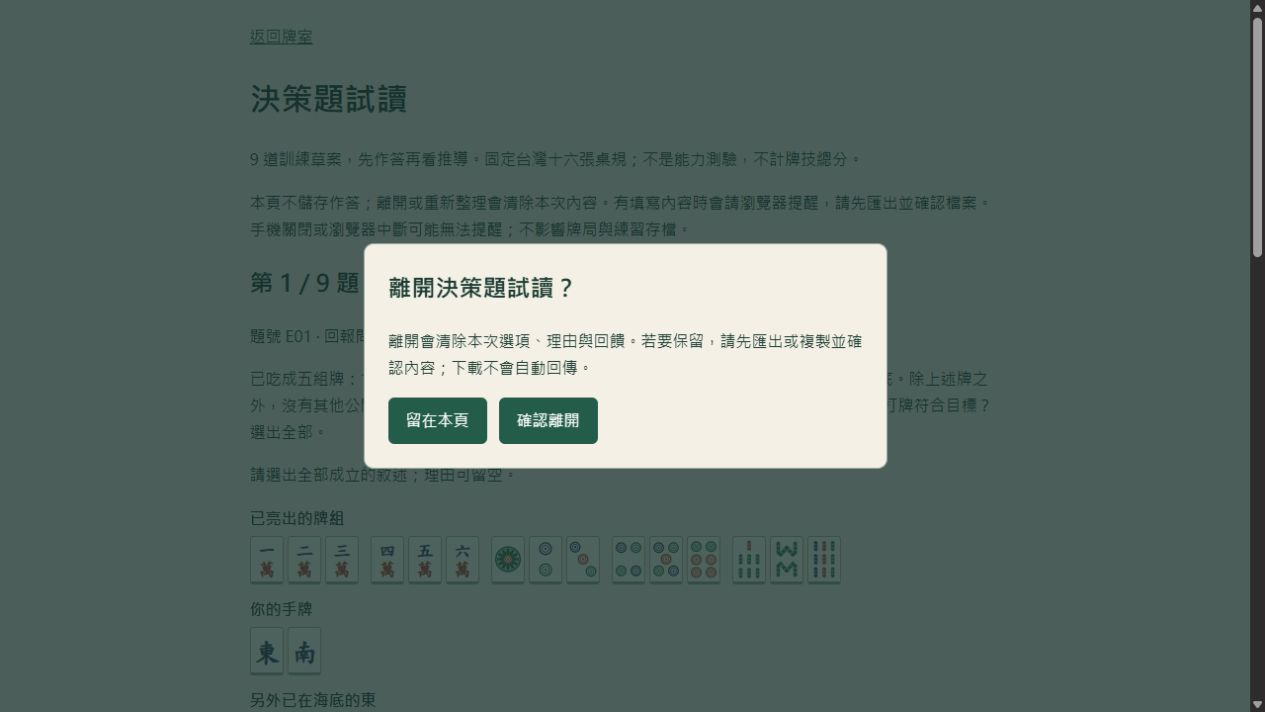
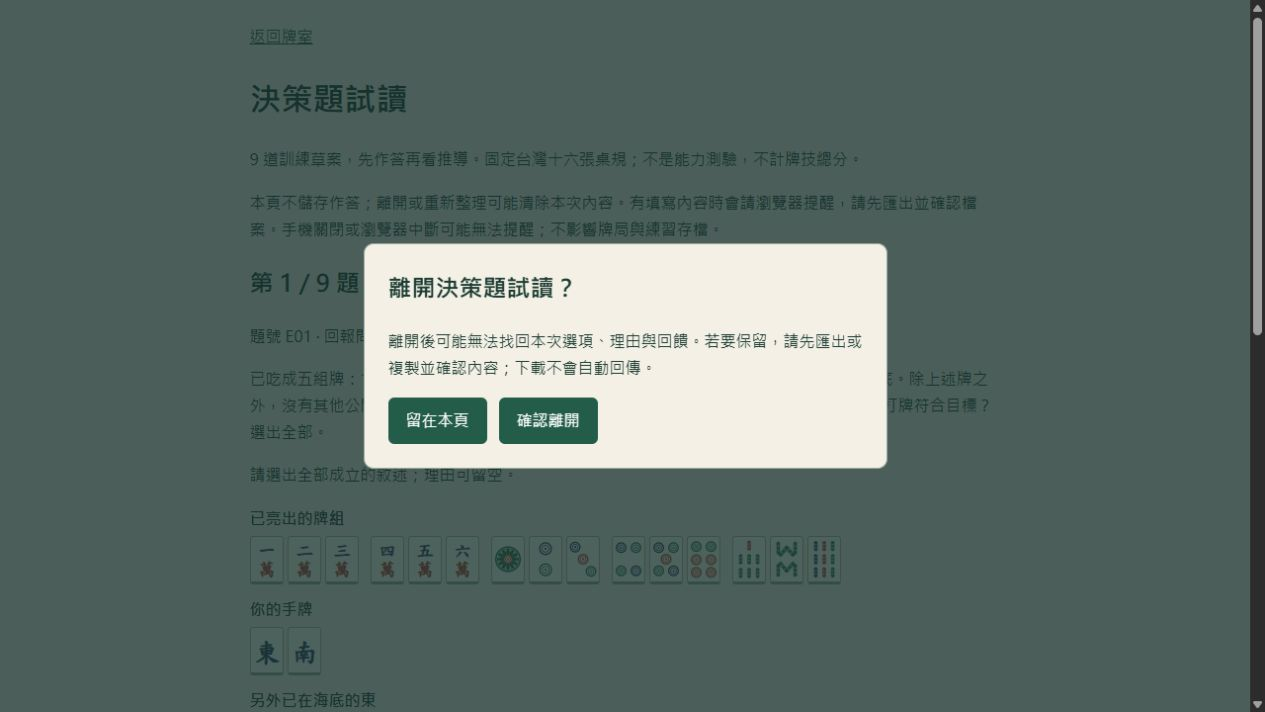
Keep restored trial forms consistent with owned drafts

diff --git a/outputs/taiwan-mahjong/src/training.ts b/outputs/taiwan-mahjong/src/training.ts
@@ -30,8 +30,8 @@ function updateDraftStatus(): void {
     : '內容只留在本頁。離開前請匯出並確認檔案；交由瀏覽器下載後仍會提醒離頁。';
   if (status.textContent !== notice) status.textContent = notice;
 }
-// Re-arm after back/forward cache restores a page whose explicit return action removed the guard.
-window.addEventListener('pageshow', updateDraftStatus);
+// The browser may restore form fields after pageshow without restoring our drafts; redraw from owned state after that restoration.
+window.addEventListener('pageshow', () => { updateDraftStatus(); setTimeout(() => render(false), 0); });
 const returnLink = document.querySelector<HTMLAnchorElement>('#return-room');
 returnLink?.addEventListener('click', event => {
   if (!leaveGuardActive || event.button !== 0 || event.ctrlKey || event.metaKey || event.shiftKey || event.altKey) return;

diff --git a/outputs/taiwan-mahjong/S01-S11-VALIDATION.md b/outputs/taiwan-mahjong/S01-S11-VALIDATION.md
@@ -17,7 +17,7 @@
 ## S1.1：功能與資料界線
 
 - 選項、理由、回饋或已揭示內容存在時才註冊 beforeunload；清空未提交內容可解除。切題保留草稿且不增加重複監聽。
-- 若瀏覽器返回／前進快取還原草稿，pageshow 會重新啟用防護；此分支由控制測試驗證，快取本身不作持久保存承諾。文案用「可能清除」，不保證每次導航都清掉快取。
+- 返回／前進時，pageshow 先重新判斷防護，再於瀏覽器表單還原後依程式自有草稿重繪。保留完整記憶體快取時，草稿及防護可恢復；僅還原表單而沒有題目草稿時清除那些顯示值，避免把錯題理由或表面勾選當成可匯出的作答。兩分支有控制測試；4204也實際驗返回後表單為空且一致。快取不作持久保存承諾。
 - 「返回牌室」使用原生 HTML dialog，預設焦點在「留在本頁」。取消／Escape 保留內容並回焦點；只有按「確認離開」才解除監聽並返回。另開分頁的 Ctrl／Meta 等修飾操作不阻擋原頁。
 - 重新整理、關閉分頁或其他網址跳轉使用瀏覽器原生提醒。內建瀏覽器驗收可觀察重新整理被攔住且內容保留；其原生確認並未提供可操作視窗，因此返回改用頁內確認。未宣稱跨瀏覽器原生確認按鈕均已驗。
 - 作答與回饋各自保留最近交由瀏覽器下載的內容快照；後續修改顯示需要再次匯出的類型，回復相同內容解除「新修改」提示。只下載回饋不能當作作答已匯出。
@@ -48,7 +48,7 @@
 
 ![離開確認](S11-LEAVE-CONFIRM.jpg)
 
-本包最終產物：首頁 `index-D57TZ2GI.js`／`index-DcXzVABB.css`、試讀 `training-BPUrtNd1.js`／`training-DnepUIbB.css`、共用 `tile-face-CG76dTyt.js`。正式發布需再次核對提交、CI 及線上資源；交接記最新結果。
+本包最終產物：首頁 `index-D57TZ2GI.js`／`index-DcXzVABB.css`、試讀 `training-CyxzesHo.js`／`training-DnepUIbB.css`、共用 `tile-face-CG76dTyt.js`。正式發布需再次核對提交、CI 及線上資源；交接記最新結果。
 
 ## 限制與下一包
 

diff --git a/outputs/taiwan-mahjong/HANDOFF.md b/outputs/taiwan-mahjong/HANDOFF.md
@@ -8,7 +8,7 @@
 
 試讀有選項／理由／回饋時防離頁，返回牌室以原生HTML dialog明確選擇；取消／Escape保留，確認才離開。下載後修改提醒分作答／回饋，成功交由瀏覽器下載仍保留防護；下載失敗與可複製內容保留。無新存檔或匯出格式，題庫版本不變。342測試／check／build通過，work/s01-tests.log；4204空白返回、只有回饋、取消／Escape／確認、重載被攔／資料保留、TXT／JSON真實下載讀回及390窄畫面已驗，僅合成資料。詳見[S0.1–S1.1驗收](S01-S11-VALIDATION.md)。
 
-主包8b541a1已推送，Actions38397606659成功；後續補上pageshow返回／前進快取還原時重啟防護，342測試／build再通過，補丁待發布核對。首頁產物維持index-D57TZ2GI.js／index-DcXzVABB.css；最終試讀training-BPUrtNd1.js／training-DnepUIbB.css；共用牌面不變。原生關頁／重載提醒有平台限制，不宣稱持久草稿或全瀏覽器已驗。下一包S1.2a PR檢查，S1.2b瀏覽器回歸另包。C01「順子子」重字留S3.1版本化修題，本包不改題庫。
+主包8b541a1及初次返回防護9ff2e92已發布，Actions38397606659／38398264515成功。正式站反查又發現瀏覽器可僅還原表單而未還原題目草稿，已补pageshow後依自有狀態重繪；342測試、build及4204實際返回／新作答／取消保留再驗通過，最終補丁待發布核對。首頁產物維持index-D57TZ2GI.js／index-DcXzVABB.css；最終試讀training-CyxzesHo.js／training-DnepUIbB.css；共用牌面不變。原生關頁／重載提醒有平台限制，不宣稱持久草稿或全瀏覽器已驗。下一包S1.2a PR檢查，S1.2b瀏覽器回歸另包。C01「順子子」重字留S3.1版本化修題，本包不改題庫。
 
 本輪116個受影響文件連結均存在，diff格式通過；4204測試分頁與預覽服務已關閉，viewport已還原，真人正式存檔未操作。開工五小時帳戶用量1%，本機驗收檢查13%，非精確token；本包無子代理、未重設或自動續跑。
 

diff --git a/outputs/taiwan-mahjong/MAINTENANCE.md b/outputs/taiwan-mahjong/MAINTENANCE.md
@@ -148,4 +148,4 @@ L2-B1：src/hand-review.ts只讀已驗證封套，挑最近三筆可比較決策
 
 2026-10-13：玩家用詞依 [LOCAL-TERMS](LOCAL-TERMS.md)，白話聽牌距離由 src/terms.ts 共用；內部牌種/API不改名。題庫生成器加完整九題 contentRevision，試讀匯出 schema 2，本機 review-trial 仍讀 schema 1；改題或牌面會改版本，舊資料不靜默重評。
 
-2026-10-13 S1.1：src/training.ts 在有頁內內容時註冊 beforeunload、清空未提交內容時解除；返回牌室原生 dialog 的確認按鈕才解除並導航，取消／Escape回焦點且不改草稿。pageshow 在返回／前進快取還原時重新判斷防護；不把快取當持久保存。作答／回饋各存頁內最近下載快照，修改提示不重繪題目；下載失敗不更新快照，發起下載不代表落盤，不解除防護。無新的存檔鍵或匯出格式，測試在 training-page.test.mjs，證據見 [S0.1–S1.1](S01-S11-VALIDATION.md)。完整課程仍在S2；產品／排程改動先同步 PRODUCT-DIRECTION、ROADMAP 及根目錄作品 README。
+2026-10-13 S1.1：src/training.ts 在有頁內內容時註冊 beforeunload、清空未提交內容時解除；返回牌室原生 dialog 的確認按鈕才解除並導航，取消／Escape回焦點且不改草稿。pageshow 先重判防護，再於表單還原後依自有草稿重繪；不得把瀏覽器單獨還原的欄位猜成題目作答，也不把快取當持久保存。作答／回饋各存頁內最近下載快照，修改提示不重繪題目；下載失敗不更新快照，發起下載不代表落盤，不解除防護。無新的存檔鍵或匯出格式，測試在 training-page.test.mjs，證據見 [S0.1–S1.1](S01-S11-VALIDATION.md)。完整課程仍在S2；產品／排程改動先同步 PRODUCT-DIRECTION、ROADMAP 及根目錄作品 README。
